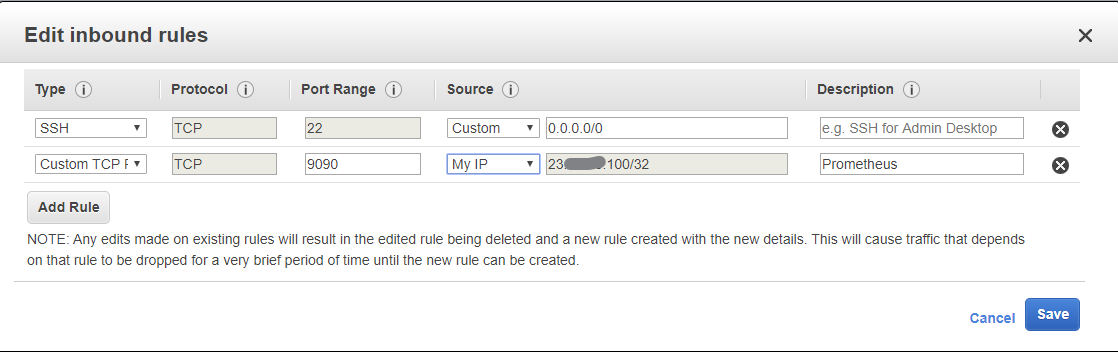
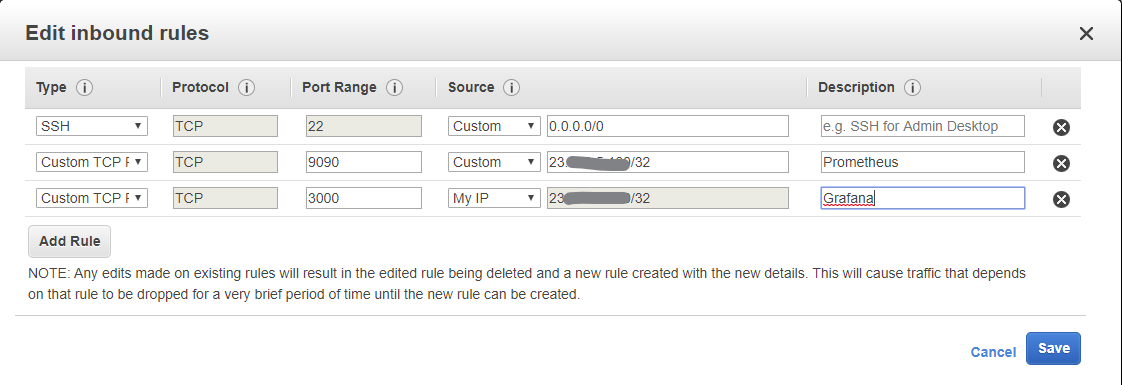
ongoing openmonitoring work

diff --git a/modules/openmonitoring/installwithdocker.md b/modules/openmonitoring/installwithdocker.md
@@ -1,17 +1,20 @@
-# Installation of Prometheus
+# Installation of using Docker
 
+1. Login to your Kafka Jumpbox as ec2-user
 
-1. Login to your Kafka Jumpbox
+1. Ensure Docker is running
 
-1. Download tarball
+        docker info
 
-https://github.com/prometheus/prometheus/releases/download/v2.16.0/prometheus-2.16.0.linux-amd64.tar.gz
+    you should see a page of details, not an error/connection failure
 
+1. Create a prometheus directory to work in
 
-1. Untar
-tar -zxvf prometheus-2.16.0.linux-amd64.tar.gz
+        mkdir ~/prometheus
 
-1. Create prometheus server configuration - prometheus.yml
+1. Create a servie configuration file
+
+Create prometheus server configuration - `~/prometheus/prometheus.yml` 
 
         # file: prometheus.yml
         # my global config
@@ -33,7 +36,7 @@ tar -zxvf prometheus-2.16.0.linux-amd64.tar.gz
 
 1. Get your [broker list](/modules/commontasks/getbrokerinfo.md) and put it into your notepad
 
-1. Create a file `targets.json`
+1. Create a file `~/prometheus/targets.json`
 
 Contents (replacing `broker_dns_[1,2,N]` with the values from the step above):
 
@@ -93,11 +96,32 @@ Example of a completed file:
 
 5. Run prometheus
 
-In the same directly, run `./prometheus`
+We are going to fire up Prometheus running docker.  This will pull down the container and run it, mounting the config files created above into the container, and exposing the service on port 9090
 
-If everything works as expected, you should see:
+`sudo docker run -d -p 9090:9090 -v ~/prometheus/prometheus.yml:/etc/prometheus/prometheus.yml -v ~/prometheus/targets.json:/etc/prometheus/targets.json prom/prometheus --config.file=/etc/prometheus/prometheus.yml`
 
-`level=info ts=2020-02-17T05:13:05.916Z caller=main.go:630 msg="Server is ready to receive web requests."`
+The command will return your containerID, eg:
+
[1 lines of base64/hex data omitted]
+
+### Some Docker Tips
+
+If you haven't used docker before, or need a refresh, some basic operational processes:
+
+1. The container will run in the background.  You can view the logs by running
+
+`sudo docker logs <containerID>`
+
+eg:
+
+`sudo docker logs db5fa73d5a197935cd7294b1db5b3a4d9057afe0ff2624514d28787fb3f778e6`
+
+1. If you want to get a shell in the container to look at configs, check processes, etc, you can do:
+
+`sudo docker exec -it <containerID> /bin/sh`
+
+
+
 
 6. Update the security group on your MSK Jumpbox
 
@@ -111,6 +135,13 @@ If everything works as expected, you should see:
         * Port Range: **9090**
         * Source: **MyIP**
         * Description: **Prometheus**
+
+    * Add a new rule:
+
+        * Type: **Custom TCP**
+        * Port Range: **3000**
+        * Source: **MyIP**
+        * Description: **Grafana**
         
     * Click Save
 
@@ -125,3 +156,18 @@ If everything works as expected, you should see:
 * Flip to your web browser, browse to the that Public IPv4 address on port 9090
 
 Example: `http://1.2.3.4:9090`
+
+You will now be in the Prometheus web interface
+
+8. Review incoming metrics
+
+You can do some basic graphing and metrics collection in the Prometheus webUI.  But we will use Grafana for more advanced dashboarding
+
+1. In the `Graph` pane in Prometheus (selected from the menu along the top), in the `Expression` bar, start typing `kafka`.  This will allow you to browse all the metrics being pull in to Prometheus
+
+![prometheus-ui-search](_media/modules/openmonitoring/prometheus_graph_search.png)
+
+Select [FIGURe OUT SOME USEFUL METRIC ONCE THERE IS DATA IN A CLUSTER]
+
+Click 'Graph' tab under the `Expression` bar and review a simple graph of the metric
+

diff --git a/modules/openmonitoring/rungrafana.md b/modules/openmonitoring/rungrafana.md
@@ -1,0 +1,42 @@
+# Running Grafana
+
+We are going to use Grafana as a tool to visualize and Dashboard KSK cluster and topic metrics that are being collected by Prometheus.  Prometheus offers a nice ui for reviewing single metrics, but if you're going to run MSK in production, you'll want nice dashboards.
+
+We will be using Docker to run Grafana on your Kafka Jumpbox - this should keep things nice and simple!
+
+
+1. Connect to your Kafka Jumpbox as ec2-user
+
+1. Start Grafana in docker:
+
+`docker run -d -p 3000:3000 --name=grafana -e "GF_INSTALL_PLUGINS=grafana-clock-panel" grafana/grafana
+
+1. Connect to your Kafka Jumpboxes public IP Address on port 3000.  An example would be `https://1.2.3.4:3000`.  You should see a Grafana login screen
+
+1. Login with username "admin", password "admin"
+
+1. Feel free to change the password to whatever you feel like when prompted to change it, or hit `Skip`
+
+We now need to add a Data Source to pull in in Time Series data from Prometheus
+
+1. Click on `Add Data Source`
+
+1. Hover over `Prometheus` then click the `Select` button
+
+1. Fill out the configuration:
+
+**Note**: You are going to need the public IP for your Kafka Jumpbox for this
+
+        URL: *http://[jumpox public IP]:9000*
+        Access: Server (default)
+
+Click **Save and Test** - the results should come back Green - `Data Source is working`.  If you get an error, check that your security groups were setup properly in the [Preparation](/modules/openmonitoring/prep.md) step.
+
+1. At the top of the Configuration page, click on 'Dashboards' and select `Import` beside `Prometheus 2.0 Stats` - this will bring in a pre-built dashboard for monitoring the Prometheus service itself
+
+
+### Import a pre-built Kafka dashboard
+
+1. In the left pane click on the Dashboard icon (4 squares), then `Manage`
+
+1. Click Import

diff --git a/modules/kafkatools/step1.md b/modules/kafkatools/step1.md
@@ -1,6 +1,17 @@
 # Kafka Tools
 
 
-Do stuff here
+## Kafkacat
 
+https://medium.com/@frank.munz/kafkacat-on-amazonlinux-centos-d7ded88042e8
+
+    sudo yum update -y
+    sudo yum install git -y
+    # make sure you have the necessary dev tools avail, 
+    # or run the ff command:
+    sudo yum group install “Development Tools” -y
+    git clone https://github.com/edenhill/kafkacat.git
+    cd kafkacat/
+    ./bootstrap.sh
+    ./kafkacat -h
 

diff --git a/modules/openmonitoring/prep.md b/modules/openmonitoring/prep.md
@@ -65,3 +65,16 @@ You are set!  Now you can move on to Step 2 and make the monitoring ports access
 * Steps
 
 This will be used shortly
+
+
+---
+
+## Step 3 - install docker on your Kafka Jumpbox
+
+1. sudo yum update -y
+1. sudo amazon-linux-extras install docker
+1. sudo service docker start
+1. sudo usermod -a -G docker ec2-user
+1. test that docker is working
+
+        docker info
